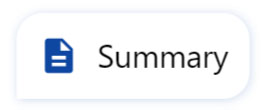
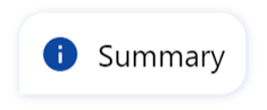
Release 0.0.8

Changed region(s): [[0.3596, 0.4091, 0.8689, 0.6818], [0.1498, 0.3273, 0.2996, 0.6818]]

diff --git a/lib/views/business_logic/utils/cv.dart b/lib/views/business_logic/utils/cv.dart
@@ -3,10 +3,8 @@ import 'dart:typed_data';
 import 'package:pdf/pdf.dart';
 import 'package:pdf/widgets.dart';
 import 'package:printing/printing.dart';
-import 'package:project_portfolio/views/business_logic/models/job.dart';
 import 'package:project_portfolio/views/business_logic/utils/date_formats.dart';
 import 'package:project_portfolio/views/business_logic/utils/globals.dart';
-// import 'package:http/http.dart' as http;
 import 'package:flutter/services.dart' show rootBundle;
 
 FutureOr<Uint8List> generateCV() async {
@@ -16,6 +14,7 @@ FutureOr<Uint8List> generateCV() async {
 
   Font? _bodyFont;
   ImageProvider? _summaryTitleImage;
+  ImageProvider? _aboutTitleImage;
   ImageProvider? _skillsTitleImage;
   ImageProvider? _experienceTitleImage;
   ImageProvider? _educationTitleImage;
@@ -23,6 +22,7 @@ FutureOr<Uint8List> generateCV() async {
 
   Future<void> _getBodyFont() async => _bodyFont = Font.ttf(await rootBundle.load("assets/fonts/Roboto-Light.ttf"));
   Future<void> _getSummaryTitleImage() async => _summaryTitleImage = await imageFromAssetBundle('assets/cv_assets/summary_title.jpg');
+  Future<void> _getAboutTitleImage() async => _aboutTitleImage = await imageFromAssetBundle('assets/cv_assets/about_title.jpg');
   Future<void> _getSkillsTitleImage() async => _skillsTitleImage = await imageFromAssetBundle('assets/cv_assets/skills_title.jpg');
   Future<void> _getExperienceTitleImage() async => _experienceTitleImage = await imageFromAssetBundle('assets/cv_assets/experience_title.jpg');
   Future<void> _getEducationTitleImage() async => _educationTitleImage = await imageFromAssetBundle('assets/cv_assets/education_title.jpg');
@@ -31,6 +31,7 @@ FutureOr<Uint8List> generateCV() async {
   await Future.wait([
     _getBodyFont(),
     _getSummaryTitleImage(),
+    _getAboutTitleImage(),
     _getSkillsTitleImage(),
     _getExperienceTitleImage(),
     _getEducationTitleImage(),
@@ -71,6 +72,15 @@ FutureOr<Uint8List> generateCV() async {
 
           Text(Globals.email),
 
+          mediumVerticalSpacer,
+
+          Container(
+              child: Column(crossAxisAlignment: CrossAxisAlignment.start, children: [
+            _buildTitle(_summaryTitleImage),
+            mediumVerticalSpacer,
+            Text(Globals.summary),
+          ])),
+
           // if (_profilePicture != null)
           //   Container(
           //       margin: EdgeInsets.only(right: 20.0),
@@ -82,19 +92,16 @@ FutureOr<Uint8List> generateCV() async {
 //       crossAxisAlignment: CrossAxisAlignment.start,
 //       children: [
 //
-//
-          // Center(
-          //   child: buildCustomTitle(leading: Icon(IconData(0xe873)), title: 'Oscar Newman'), //! TODO: ADD IMAGE ASSET
-          // ),
-
-//! TODO ADD CONTACT DEETS
 
           mediumVerticalSpacer,
 
-          _buildTitle(_summaryTitleImage),
+          Container(
+              child: Column(crossAxisAlignment: CrossAxisAlignment.start, children: [
+            _buildTitle(_aboutTitleImage),
+            mediumVerticalSpacer,
+            Text(Globals.about),
+          ])),
 
-          mediumVerticalSpacer,
-          Text(Globals.about),
           largeVerticalSpacer,
 
           Container(

diff --git a/lib/views/business_logic/utils/globals.dart b/lib/views/business_logic/utils/globals.dart
@@ -39,7 +39,8 @@ class Globals {
     '021': Tag(id: '021', title: 'Stripe', color: Colors.red),
   };
 
-  static const String summary = '''I am creative, driven, and like to make my work simple & functional.''';
+  static const String summary =
+      '''I am creative, driven and deliberate in my approach to work. I'm skilled with Dart, Flutter, Cross Platform Development, JavaScript & TypeScript, and iOS & Material Design. My background in business helps me consider the business value I'm adding as a programmer, ensuring I'm both valuable and efficient.''';
 
   static const String about =
       '''I started programming as I needed a website for a business, retailing children's blinds, I set up while completing my business degree. Working on the website quickly became the most enjoyable aspect of running the business, and when the business was mature enough to require less supervision I began to regret not taking a computer science/engineering degree. I decided to work with what I had, and combined this love of designing and writing software with the business accumen I had accumelated. My background in business has since proven to be a huge asset, helping me consider the business value I'm adding as a programmer, and it often advises me away from jumping into rabbit holes that wouldn't be profitable to pursue.\n\nI started Tree Worker because I had some experience working with tree surgeons and I could see there was a gap in the market. I also wanted to create something real, having worked with enough theory at university, and I knew that as my first ever real project - and one that I was working on alone - I wasn't realistically going be able to compete within a saturated market. That may suggest I like to aim low, but I partnered this sensible project with an assortment of widly unrealistic deadlines to compensate - while working part time as an online tutor & digital marketer.\n\nTree Worker is now in a stable and very functional state, having all the features that I had originally envisioned for it, and I can now either direct all my efforts into marketing, or move onto other projects and let it grow organically & via small, incremeningly more efficient, long term ads. I intend to do the latter and I'm therefore looking for a developer role. Although I'd love to contine working with Flutter, I'm always open to working with other frameworks - and learning always excites me.''';

diff --git a/lib/views/ui/screens/cv_screen.dart b/lib/views/ui/screens/cv_screen.dart
@@ -14,10 +14,6 @@ class AboutScreen extends StatelessWidget {
     ThemeData _theme = Theme.of(context);
 
     return Scaffold(
-      // floatingActionButton: FloatingActionButton(
-      //   child: Icon(Icons.download_rounded),
-      //   onPressed: () => Navigator.pushNamed(context, CVPDFScreen.id),
-      // ),
       body: Scrollbar(
         child: ListView(
           children: [
@@ -31,7 +27,7 @@ class AboutScreen extends StatelessWidget {
                         SizedBox(
                           width: 50.0,
                         ),
-                        CustomTitle(leading: Icon(Icons.person), title: 'About'),
+                        CustomTitle(leading: Icon(Icons.description), title: 'CV'),
                         SizedBox(
                           width: 20.0,
                         ),
@@ -43,7 +39,7 @@ class AboutScreen extends StatelessWidget {
                               SizedBox(
                                 width: 10.0,
                               ),
-                              Text('View PDF')
+                              Text('Generate PDF')
                             ],
                           ),
                           onPressed: () => Navigator.pushNamed(context, CVPDFScreen.id),
@@ -58,10 +54,16 @@ class AboutScreen extends StatelessWidget {
                   child: Column(
                     crossAxisAlignment: CrossAxisAlignment.start,
                     children: [
-                      mediumVerticalSpacer,
                       CustomTitle(
-                        leading: Icon(Icons.description),
+                        leading: Icon(Icons.info),
                         title: 'Summary',
+                      ),
+                      mediumVerticalSpacer,
+                      Text(Globals.summary),
+                      largeVerticalSpacer,
+                      CustomTitle(
+                        leading: Icon(Icons.person),
+                        title: 'About',
                       ),
                       mediumVerticalSpacer,
                       Text(Globals.about),

diff --git a/lib/views/ui/screens/home_screen.dart b/lib/views/ui/screens/home_screen.dart
@@ -26,9 +26,6 @@ class _HomeScreenState extends State<HomeScreen> {
   @override
   void initState() {
     _projects = _dataBase.getData(collection: 'projects').values.map((e) => Project.fromMap(e)).toList();
-    // _projects = [];
-
-    //  _animateNameCard();
 
     WidgetsBinding.instance?.addPostFrameCallback((_) async {
       if (Provider.of<UserPreferences>(context, listen: false).handShakeStatus == HandShakeStatus.pending)
@@ -47,10 +44,6 @@ class _HomeScreenState extends State<HomeScreen> {
     return SafeArea(
       child: Scaffold(
         backgroundColor: _theme.cardColor,
-        // floatingActionButton: FloatingActionButton(
-        //   child: Icon(Icons.download_rounded),
-        //   onPressed: () {},
-        // ),
         body: Scrollbar(
           child: NestedScrollView(
               headerSliverBuilder: (BuildContext context, bool innerBoxIsScrolled) => [

diff --git a/lib/views/ui/screens/navigation_screen.dart b/lib/views/ui/screens/navigation_screen.dart
@@ -1,5 +1,5 @@
 import 'package:flutter/material.dart';
-import 'package:project_portfolio/views/ui/screens/about_screen.dart';
+import 'package:project_portfolio/views/ui/screens/cv_screen.dart';
 import 'package:project_portfolio/views/ui/screens/contact_screen.dart';
 import 'package:project_portfolio/views/ui/screens/home_screen.dart';
 
@@ -24,7 +24,7 @@ class _NavigationScreenState extends State<NavigationScreen> {
         onTap: (_index) => _pageController.jumpToPage(_index),
         items: [
           const BottomNavigationBarItem(icon: Icon(Icons.home), label: 'Home'),
-          const BottomNavigationBarItem(icon: Icon(Icons.person), label: 'About'),
+          const BottomNavigationBarItem(icon: Icon(Icons.description), label: 'CV'),
           const BottomNavigationBarItem(icon: Icon(Icons.mail), label: 'Contact'),
         ],
       ),

diff --git a/web/index.html b/web/index.html
@@ -56,6 +56,6 @@
         pdfjsLib.GlobalWorkerOptions.workerSrc = "//cdnjs.cloudflare.com/ajax/libs/pdf.js/2.7.570/pdf.worker.min.js";
     </script>
 
-  <script src="main.dart.js?version=0.0.7" type="application/javascript"></script>
+  <script src="main.dart.js?version=0.0.8" type="application/javascript"></script>
 </body>
 </html>
